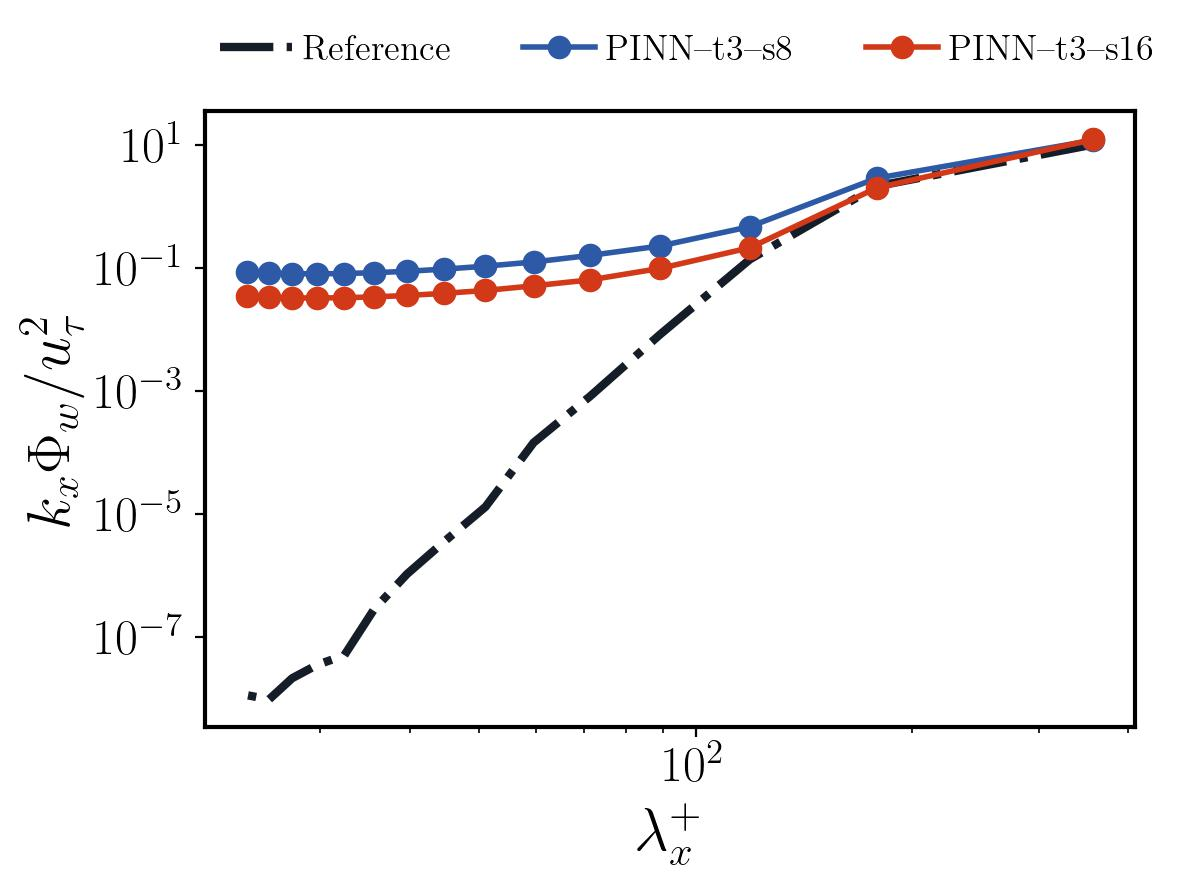
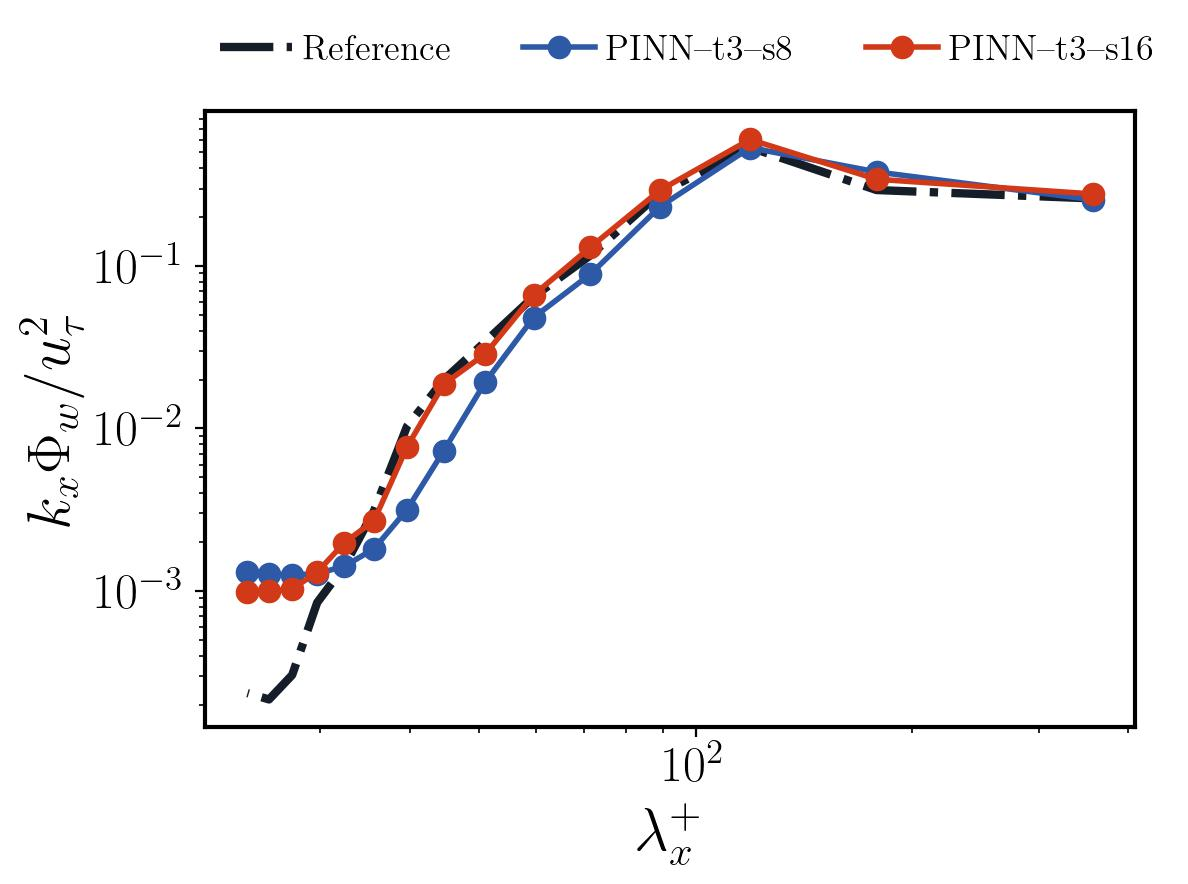
update

diff --git a/mi_channel/eval/b4_pre_psd1d.py b/mi_channel/eval/b4_pre_psd1d.py
@@ -24,11 +24,14 @@ def PSD_1D(data,Nx,Ny,Nz, nt,Lx,Ly,Lz,utype=0):
     eta = nu / u_tau
 
     print(f"Lambdax+ = { 0.6 * np.pi/eta}")
-    yp = 5
+    yp = int(Ny/1.3)
+    yp = 23
     y_loc = Ly * (yp/Ny) /eta
     print(f"At y+ = {y_loc}")
+    
     y_loc = Ly * (yp/Ny)
-    # print(f"At y = {y_loc}")
+
+    print(f"At y = {y_loc}")
     xp = int(Nx/2)
     
     
@@ -60,7 +63,7 @@ def PSD_1D(data,Nx,Ny,Nz, nt,Lx,Ly,Lz,utype=0):
     
     spectra = np.empty(shape=(Nx,nt))
     for t in range(nt):
-        u_hat = np.fft.fftn(data[:,:,t])
+        u_hat = np.fft.fftn(data[:,:,t]**2)
         
         u_hat = np.fft.fftshift(u_hat)
 
